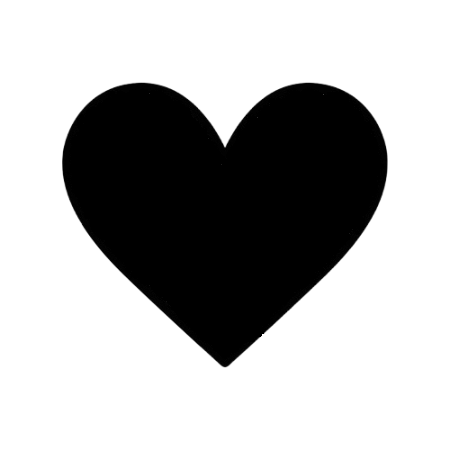
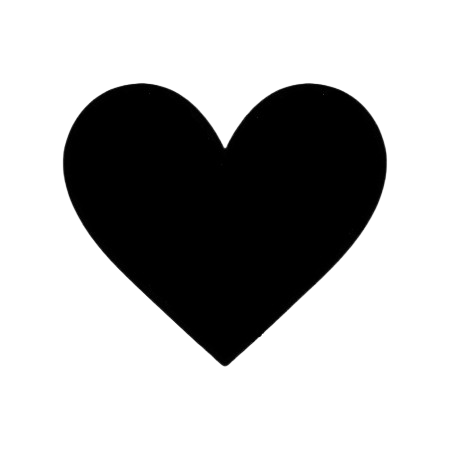
add um botao
preciso arrumar os favoritos,
control kf,
rever commit,
fazer a paagina

diff --git a/react/app/Biblioteca/page.tsx b/react/app/Biblioteca/page.tsx
@@ -9,9 +9,13 @@ import { EstaLogado } from "../actions";
 
 import { usePictogramas, PictogramasGrid } from "../components/PictogramaSection";
 import NavBar from "../components/NavBar";
+import Button from "../components/Button";
+import { useRouter } from "next/navigation";
 
 
 export default function BibliotecaPage() {
+  const router = useRouter();
+
   const { q, categorias, resultados, loading } = usePictogramas([
     "Pessoas", "Animais", "Alimentos", "Ações", "Objetos"
   ]);
@@ -46,6 +50,8 @@ export default function BibliotecaPage() {
 
   //se é true, navigationblue, se não é, navbar
 
+  
+
   return (
     <section className="w-full bg-background px-8 py-12 flex flex-col gap-8">
       {qualBarraNavegacao}
@@ -54,6 +60,10 @@ export default function BibliotecaPage() {
         title="Biblioteca"
         redirectTo="/Biblioteca"
         showScroll={false}
+      />
+      <Button 
+        text="Pesquise frases"
+        onClick={() => router.push("/Login")}
       />
 
       {/* PICTOGRAMAS */}
